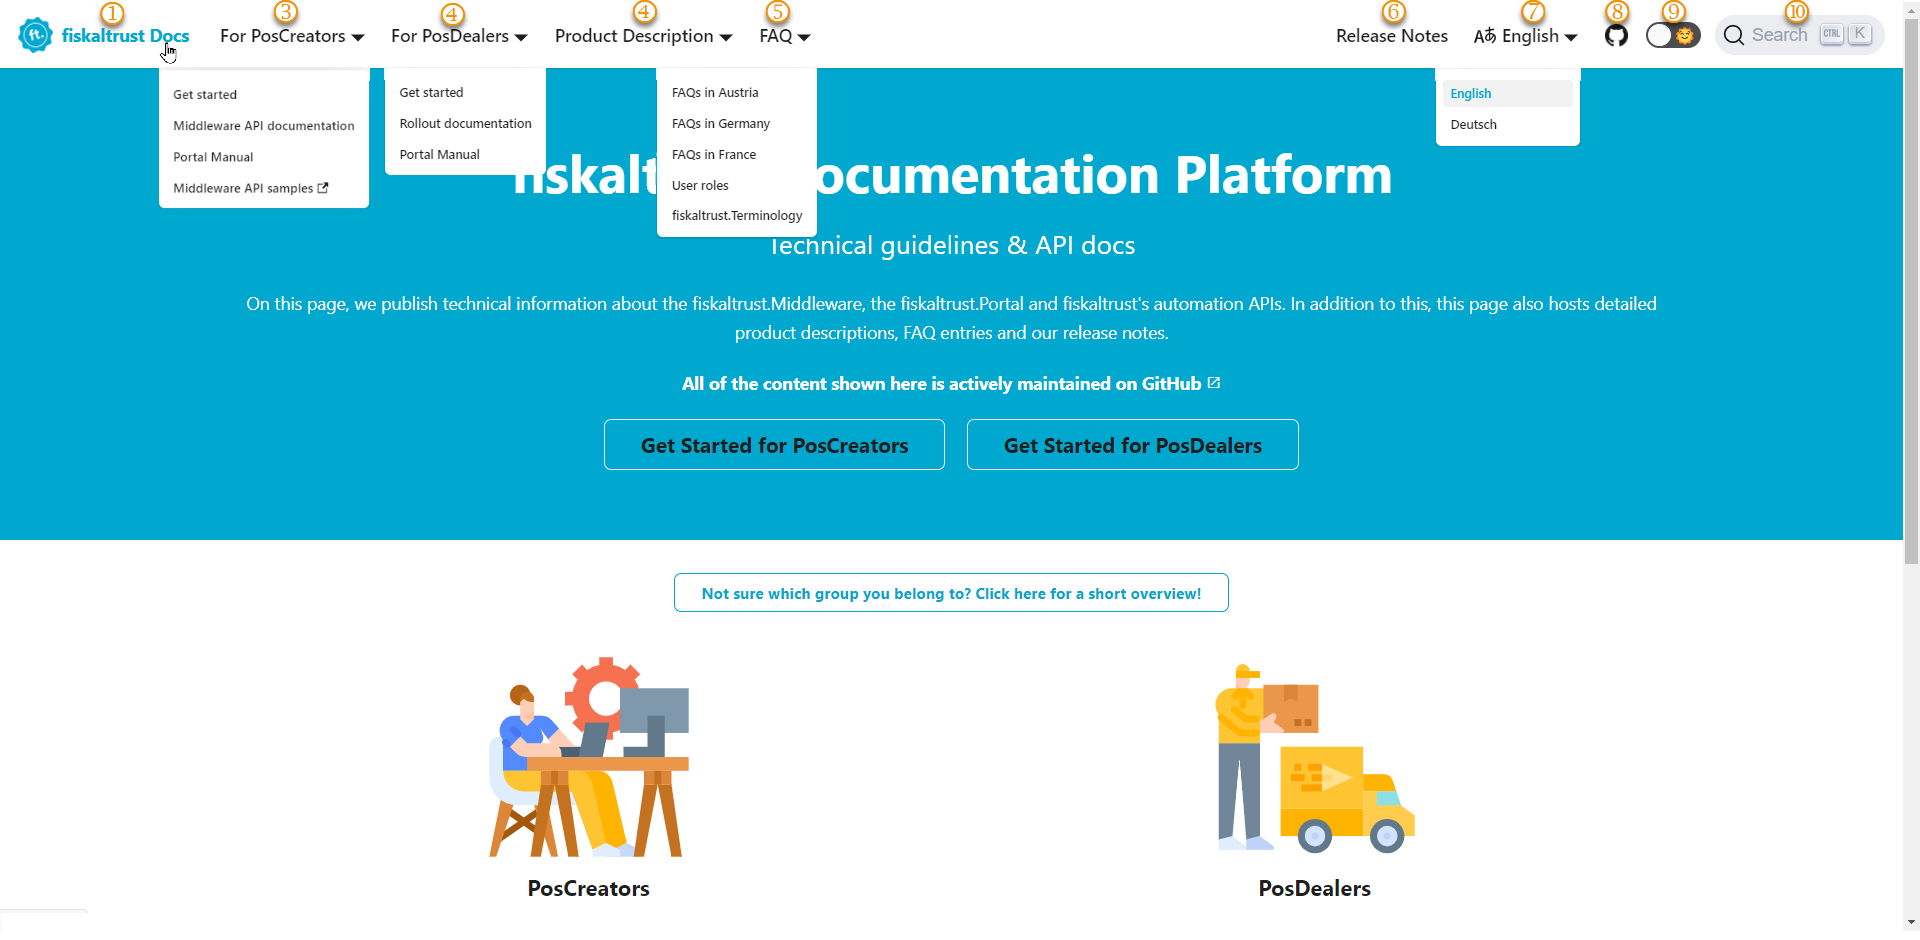
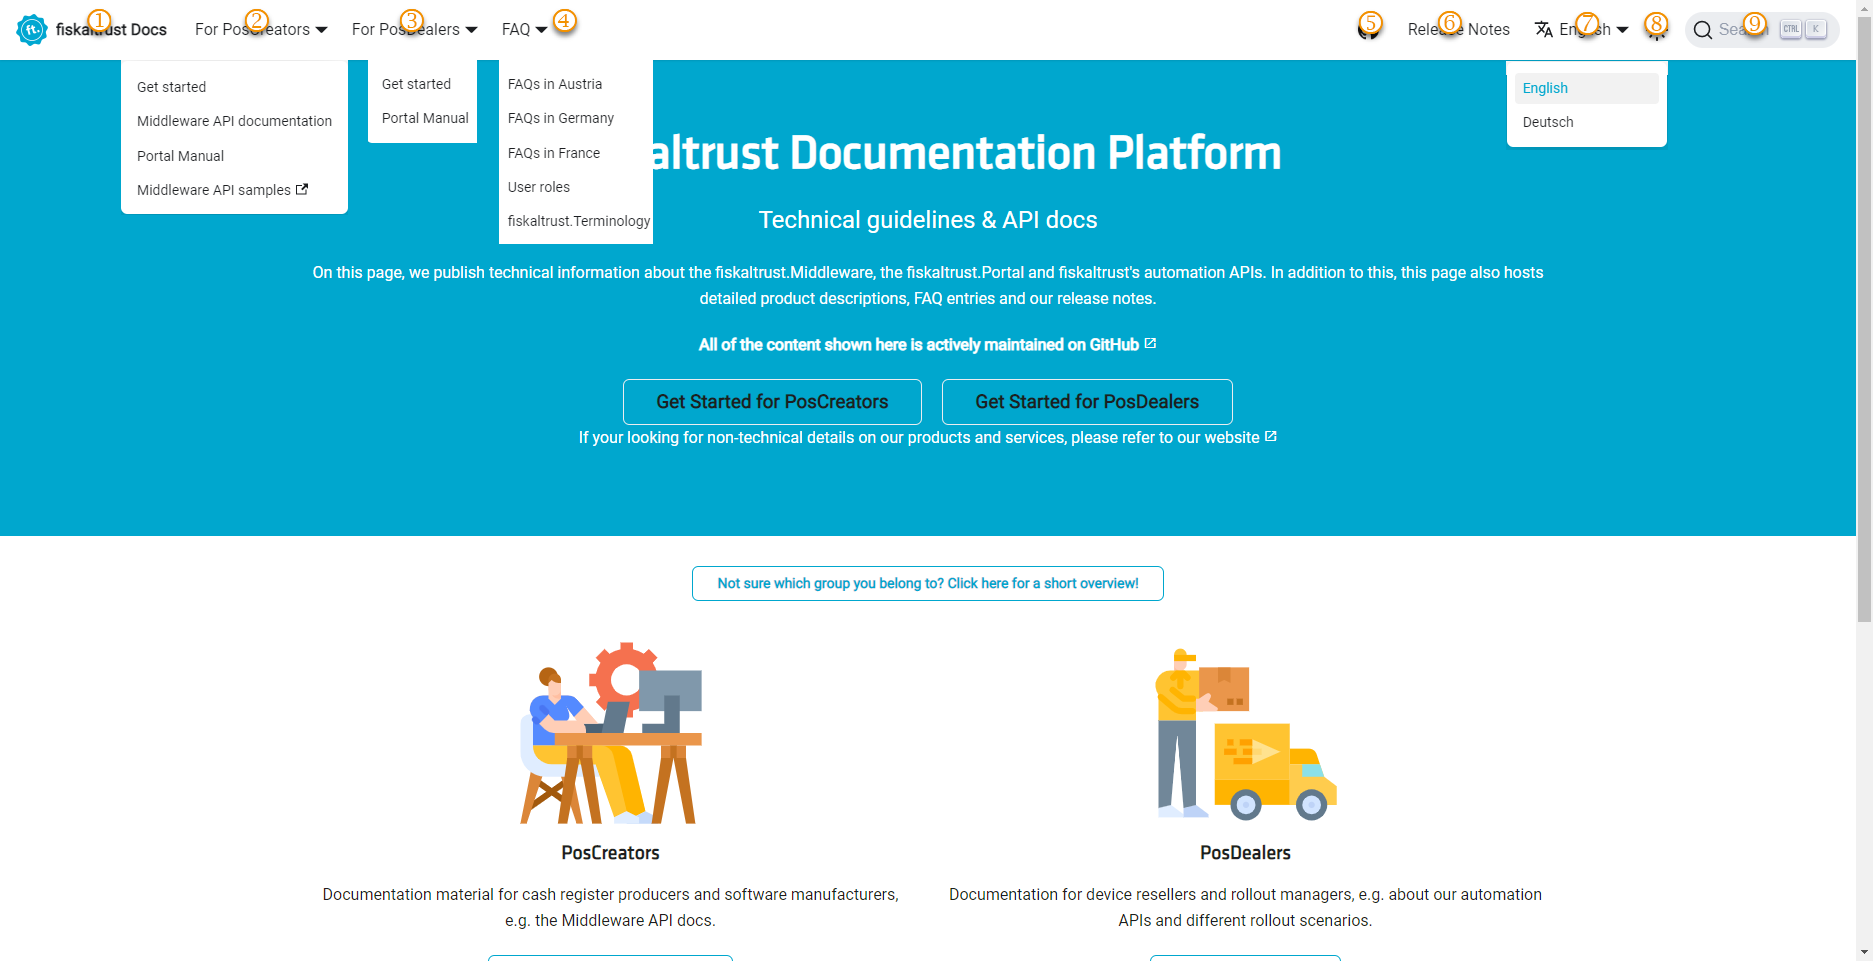
user/rfa/ralaunch/sources/documentation

diff --git a/information-sources/documentation.md b/information-sources/documentation.md
@@ -12,7 +12,7 @@ After reading this, you can use the documentation effectively in your specific f
 :::
 
 
-![fiskaltrust.Docs start](images/4-documentation-start-new.png "https://docs.fiskaltrust.cloud/")
+![fiskaltrust.Docs start](images/4-documentation-start.png "https://docs.fiskaltrust.cloud/")
 
 ## Usage of the documentation
 | links | description                                                                                                                |
@@ -20,13 +20,13 @@ After reading this, you can use the documentation effectively in your specific f
 |![Number 1](images/Numbers/circle-1o.png) |Jump back to the [start](https://docs.fiskaltrust.cloud/)  |
 |![Number 2](images/Numbers/circle-2o.png) |PosCreators start reading [here](https://docs.fiskaltrust.cloud/de/docs/poscreators/get-started)  |
 |![Number 3](images/Numbers/circle-3o.png) |PosDealers start reading [here](https://docs.fiskaltrust.cloud/docs/posdealers/introduction)   |
-|![Number 4](images/Numbers/circle-4o.png) |Here you can find more detailed [product descriptions](https://docs.fiskaltrust.cloud/docs/product-description/germany)   |
-|![Number 5](images/Numbers/circle-5o.png) |Here you will find answers to frequently asked questions (FAQ), a description of [customer roles](https://docs.fiskaltrust.cloud/docs/faq/customer-roles) like PosCreator, PosDealer an our [Terminology](https://docs.fiskaltrust.cloud/docs/faq/terms)  |
+|![Number 4](images/Numbers/circle-4o.png) |Here you will find answers to frequently asked questions (FAQ), a description of [customer roles](https://docs.fiskaltrust.cloud/docs/faq/customer-roles) like PosCreator, PosDealer and our [Terminology](https://docs.fiskaltrust.cloud/docs/faq/terms) |
+|![Number 5](images/Numbers/circle-5o.png) |Jump to our [repositories](https://github.com/fiskaltrust) in GitHub |
 |![Number 6](images/Numbers/circle-6o.png) |Jump to our [Release Notes](https://docs.fiskaltrust.cloud/docs/release-notes) |
 |![Number 7](images/Numbers/circle-7o.png) |Change between languages, if translations are available  |
 |![Number 8](images/Numbers/circle-8o.png) |Switch between light mode and dark mode with this button  |
-|![Number 9](images/Numbers/circle-9o.png) |Jump to our [repositories](https://github.com/fiskaltrust) in GitHub  |
-|![Number 10](images/Numbers/circle-10o.png)|Tick here or use `CTRL` & `K` to open the search window  |
+|![Number 9](images/Numbers/circle-9o.png) |Tick here or use `CTRL` & `K` to open the search window  |
+
 
 ## Searching in the documentation
 
